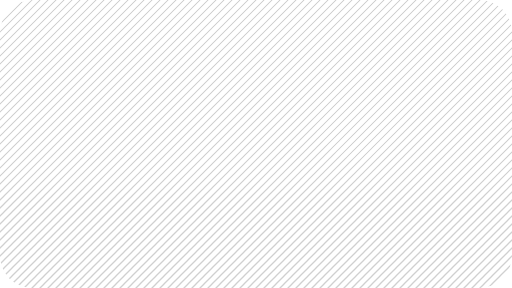
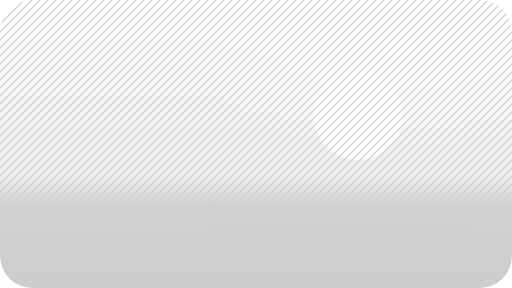
token-kit 0.3.16
Since v0.3.15:

- Plate onion: the Figma person draws the plate behind it
- Plate onion: the person variants; the six plain skins re-taken
- release --publish: a version already published says so instead of failing

Changed region(s): [[0.0, 0.625, 1.0, 1.0]]

diff --git a/src/react/primitives/Plate.stories.tsx b/src/react/primitives/Plate.stories.tsx
@@ -118,7 +118,10 @@ export const OnionSkin: Story = {
   name: "Onion skin (Figma)",
   args: { texture: "hatch", seed: 1, stock: false },
   parameters: {
-    docs: { description: { story: "The Figma component laid over this one at the 512px it is drawn at, one ratio at a time (the ratio control picks the skin). The height is capped at 22rem, so 4:3, 1:1 and 3:4 are the same height. Switch Onion in the toolbar." } },
-    onion: { component: "Plate", skin: (a: Record<string, unknown>) => `${String(a.ratio ?? "16 / 9").replace(/\s*\/\s*/, "x")}.png` },
+    docs: { description: { story: "The Figma component laid over this one at the 512px it is drawn at, one variant at a time (the ratio and subject controls pick the skin; Figma has a person at 3:4 and 4:5). Without a subject the height is capped at 22rem, so 4:3, 1:1 and 3:4 are the same height. Switch Onion in the toolbar." } },
+    onion: {
+      component: "Plate",
+      skin: (a: Record<string, unknown>) => `${String(a.ratio ?? "16 / 9").replace(/\s*\/\s*/, "x")}${a.subject ? `-${a.subject}` : ""}.png`,
+    },
   },
 };

diff --git a/figma/guidelines.md b/figma/guidelines.md
@@ -1,6 +1,6 @@
 # token-kit: library guidelines
 
-token-kit 0.3.15. A token-driven design system: components draw only from
+token-kit 0.3.16. A token-driven design system: components draw only from
 variables, so a brand, a density or dark mode is a change of variable mode,
 never a change to a component. Generated from the kit's own documentation,
 stories and component sources; the code is the original and Storybook shows
